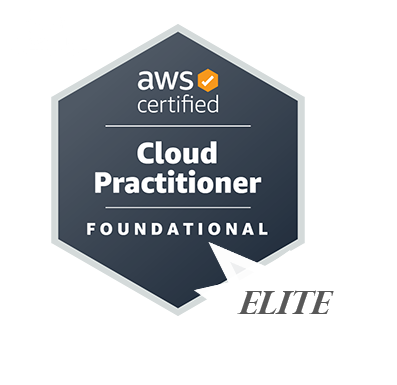
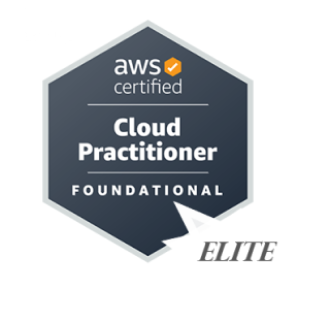
ajustando SEO e imagens

diff --git a/src/app/components/home/home/home.component.ts b/src/app/components/home/home/home.component.ts
@@ -1,8 +1,32 @@
-import { Component } from '@angular/core';
+import { Component, OnInit } from '@angular/core';
+import { Meta, Title } from '@angular/platform-browser';
 
 @Component({
   selector: 'app-home',
   templateUrl: './home.component.html',
   styleUrls: ['./home.component.scss']
 })
-export class HomeComponent { }
+export class HomeComponent implements OnInit {
+
+  constructor(private metaTagService: Meta, private titleService: Title) { }
+
+  ngOnInit(): void {
+    this.metaTagService.addTags([
+      {
+        name: 'description',
+        content: 'Somos uma escola de software especializada em treinamentos para certificações AWS e desenvolvimento BACK-END. Atuando tanto para treinamentos corporativos quanto para treinamentos para pessoas física'
+      },
+      {
+        name: 'keywords',
+        content: 'Treinamento AWS, Treinamento corporativo, Back-end, AWS'
+      },
+      {
+        name: 'date',
+        content: '2022-11-24',
+        scheme: 'YYYY-MM-DD'
+      }
+    ])
+
+    this.titleService.setTitle('Escola De Software - Página Inicial');
+  }
+}

diff --git a/src/app/components/header/header.component.html b/src/app/components/header/header.component.html
@@ -1,7 +1,7 @@
 <mat-toolbar id="header" class="cor-fundo-escuro flex-justify-center">
   <div class="container">
     <div class="flex flex-space-between flex-align-center">
-      <img src="assets/logo.webp" height="30" alt="logo Escola de software" />
+      <img src="assets/logo.webp" height="30" width="50" alt="logo Escola de software" />
       &nbsp;
       <h1 class="cor-texto-claro">Escola de Software</h1>
       <span style="color:pink">&nbsp;beta</span>
@@ -16,7 +16,7 @@
       </div>
 
       <div class="item-mobile">
-        <button mat-mini-fab [matMenuTriggerFor]="menu" color="defaut">
+        <button mat-mini-fab [matMenuTriggerFor]="menu" aria-label="botão do menu" alt="botão do menu" color="defaut">
           <mat-icon>menu</mat-icon>
         </button>
         <mat-menu #menu="matMenu">

diff --git a/src/index.html b/src/index.html
@@ -1,16 +1,21 @@
 <!doctype html>
 <html lang="en">
+
 <head>
   <meta charset="utf-8">
-  <title>Escoladesoftware</title>
+  <title>Escola De Software</title>
   <base href="/">
   <meta name="viewport" content="width=device-width, initial-scale=1">
+  <meta name="robots" content="index, follow">
+  <meta name="authors" content="Escola De Software">
   <link rel="icon" type="image/x-icon" href="favicon.ico">
   <link rel="preconnect" href="https://fonts.gstatic.com">
   <link href="https://fonts.googleapis.com/css2?family=Roboto:wght@300;400;500&display=swap" rel="stylesheet">
   <link href="https://fonts.googleapis.com/icon?family=Material+Icons" rel="stylesheet">
 </head>
+
 <body>
   <app-root></app-root>
 </body>
+
 </html>

diff --git a/src/app/components/home/lancamento/lancamento.component.html b/src/app/components/home/lancamento/lancamento.component.html
@@ -15,13 +15,14 @@
       </div>
       <div class="div-imagens full-width">
         <div class="container div-imagens-filha">
-          <img src="assets/CP_ELITE.webp" width="256" height="256" alt="Cloud Practitioner ELITE" />
+          <img src="assets/CP_ELITE.webp" width="320" height="320" alt="Cloud Practitioner ELITE" />
         </div>
       </div>
     </div>
     <br />
     <div class="flex flex-justify-center">
-      <button mat-raised-button color="primary">SAIBA MAIS</button>
+      <a target="_blank" href="https://web.whatsapp.com/send/?1=pt_BR&phone=5511998161253" mat-raised-button
+        color="primary">SAIBA MAIS</a>
     </div>
     <br />
     <br />

diff --git a/src/app/components/home/treinamentocorporativo/treinamentocorporativo.component.ts b/src/app/components/home/treinamentocorporativo/treinamentocorporativo.component.ts
@@ -24,6 +24,7 @@ export class TreinamentocorporativoComponent {
   onEnviarDados() {
     if (this.formTreinamento.valid) {
       this.enviarEmailService.Post(this.infoTreinamentoCorporativo)
+        .subscribe();
     }
     else
       this.formTreinamento.markAllAsTouched();
